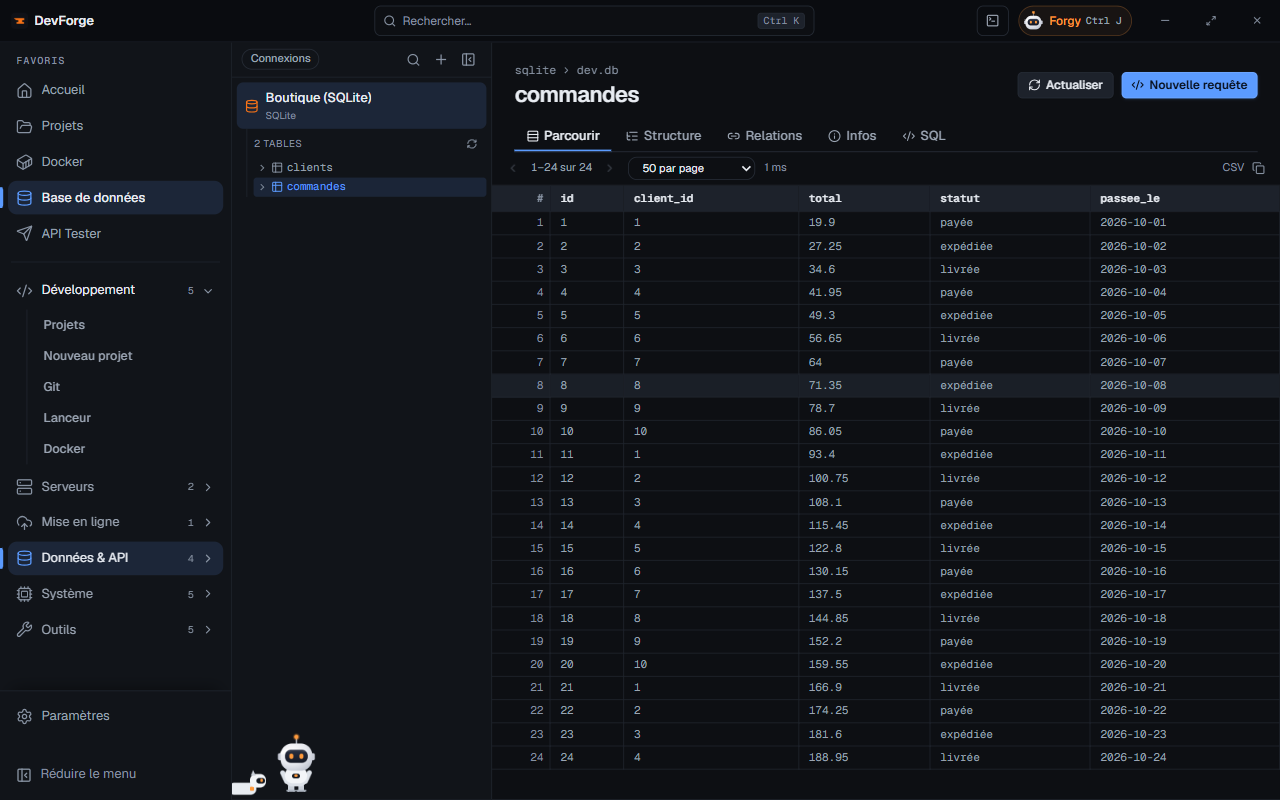
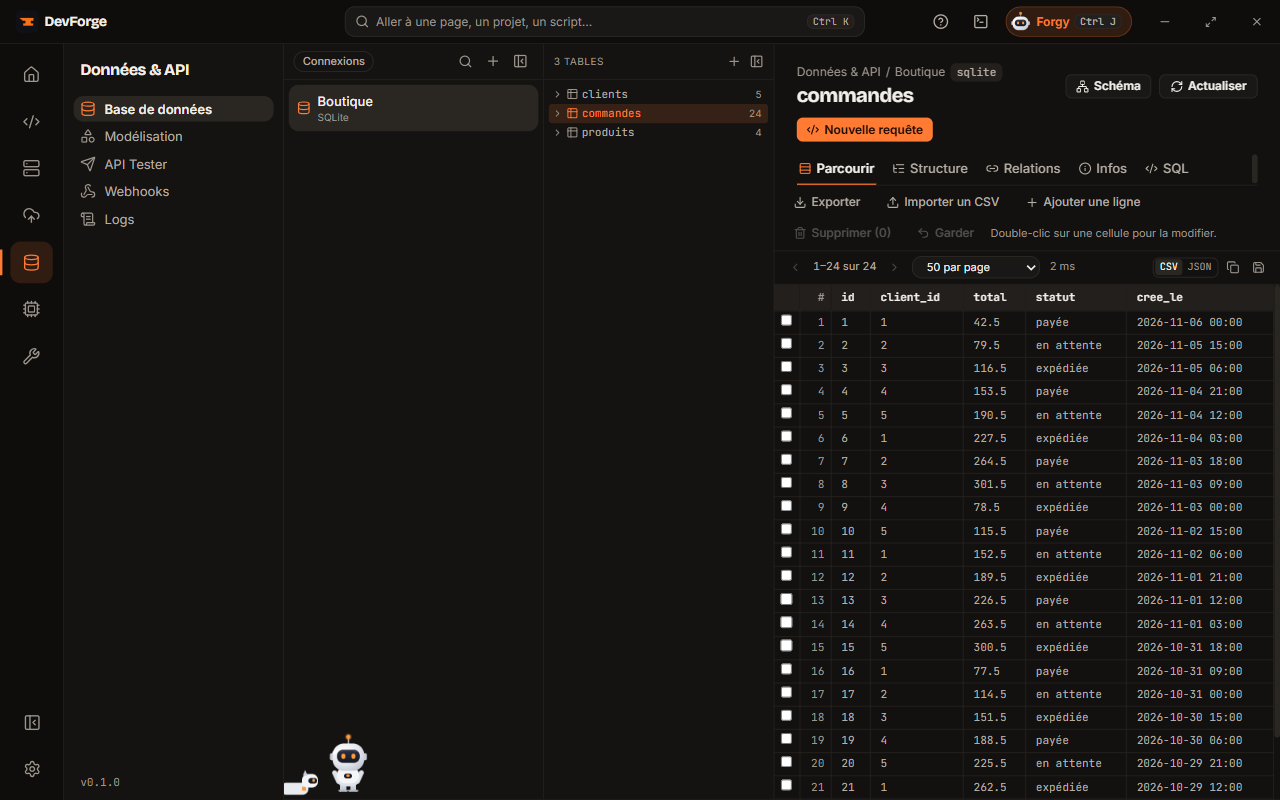
docs(site): le site aux couleurs et polices Forge, captures refaites
- Polices de l'app : Inter pour le texte, Bricolage Grotesque pour les
  titres, JetBrains Mono pour le code, à la place de Geist
- Couleurs de l'app : papier crème et accent orange brique en clair,
  anthracite chaud et orange vif en sombre ; blocs de code sur le fond de
  l'app ; focus orange vif dans les zones sombres de la page d'accueil
- Page d'accueil, page 404 et page d'administration des statistiques au
  même thème ; logo de l'en-tête des pages de doc à la bonne taille
- 16 captures de l'app et les deux images de partage refaites avec
  l'interface Forge complète (accueil, panneau du menu, couleurs du code),
  sur des données de démonstration
- « La base SQLite du projet » sur la page d'accueil, comme le montre la
  capture

diff --git a/site/src/styles/custom.css b/site/src/styles/custom.css
@@ -1,72 +1,76 @@
 /*
- * The docs in the « Atelier » look of the home page: a warm paper ground,
- * dark ink, Geist, the app's screens on its dark canvas, Forgy's orange for
- * what is current. The dark theme keeps the app's own colours.
+ * The docs in the app's « Forge » look (src/renderer/src/styles/index.css):
+ * warm charcoal in the dark theme, cream paper in the light one, Inter for the
+ * text, Bricolage Grotesque for the titles, JetBrains Mono for code, the
+ * forge orange for what is current, the app's screens on its dark canvas.
  */
 :root {
-  --sl-font: 'Geist Variable', 'Segoe UI', system-ui, sans-serif;
-  --sl-font-mono: 'Geist Mono Variable', ui-monospace, monospace;
+  --sl-font: 'Inter Variable', 'Segoe UI', system-ui, sans-serif;
+  --sl-font-mono: 'JetBrains Mono Variable', 'Cascadia Code', Consolas, monospace;
+  --df-display: 'Bricolage Grotesque Variable', 'Inter Variable', 'Segoe UI', sans-serif;
 
-  /* Dark theme: the app (src/renderer/src/styles/index.css) */
-  --sl-color-accent-low: #15233D;
-  --sl-color-accent: #5B9BFF;
-  --sl-color-accent-high: #CFE0FF;
-  --sl-color-white: #FFFFFF;
-  --sl-color-gray-1: #E8ECF2;
-  --sl-color-gray-2: #C3CAD5;
-  --sl-color-gray-3: #9AA4B2;
-  --sl-color-gray-4: #6B7584;
-  --sl-color-gray-5: #262C36;
-  --sl-color-gray-6: #161A21;
-  --sl-color-black: #0D0F13;
-  --sl-color-bg-nav: #0D0F13;
-  --sl-color-bg-sidebar: #0D0F13;
-  --sl-color-hairline: #1F242D;
-  --sl-color-hairline-light: #262C36;
+  /* Dark theme: the app's own colours */
+  --sl-color-accent-low: #3A1E10;
+  --sl-color-accent: #FF7A33;
+  --sl-color-accent-high: #FFC9A8;
+  --sl-color-white: #FAF7F3;
+  --sl-color-gray-1: #F2EEE9;
+  --sl-color-gray-2: #B5ADA4;
+  --sl-color-gray-3: #9E968D;
+  --sl-color-gray-4: #6E665E;
+  --sl-color-gray-5: #2E2A26;
+  --sl-color-gray-6: #1A1816;
+  --sl-color-black: #121110;
+  --sl-color-bg-nav: #121110;
+  --sl-color-bg-sidebar: #151311;
+  --sl-color-hairline: #25221F;
+  --sl-color-hairline-light: #2E2A26;
 
-  --df-orange: #FF9A3C;
-  --df-card: #161A21;
-  --df-current: #1C2638;
-  --df-code: #1D222B;
-  --df-ink: #E8ECF2;
+  --df-orange: #FF7A33;
+  --df-card: #1A1816;
+  --df-current: #2A2622;
+  --df-code: #221F1C;
+  --df-ink: #F2EEE9;
   --df-ink-hover: #FFFFFF;
-  --df-on-ink: #0D0F13;
-  --df-stage: #0A0C10;
+  --df-on-ink: #121110;
+  --df-stage: #0E0D0C;
 }
 
-/* Light theme, the default: the home page */
+/* Light theme, the default: the app's light theme */
 :root[data-theme='light'] {
-  --sl-color-accent-low: #E3EAFB;
-  --sl-color-accent: #1D4ED8;
-  --sl-color-accent-high: #1E3A8A;
-  --sl-color-white: #17191E;
-  --sl-color-gray-1: #23262D;
-  --sl-color-gray-2: #4A505C;
-  --sl-color-gray-3: #5F6571;
-  --sl-color-gray-4: #8A877F;
-  --sl-color-gray-5: #E2DED6;
-  --sl-color-gray-6: #EEEAE3;
-  --sl-color-gray-7: #F1EDE6;
-  --sl-color-black: #F6F4EF;
-  --sl-color-bg-nav: #F6F4EF;
-  --sl-color-bg-sidebar: #F6F4EF;
-  --sl-color-hairline: #E2DED6;
-  --sl-color-hairline-light: #E2DED6;
-  --sl-color-hairline-shade: #D6D1C8;
+  --sl-color-accent-low: #F7E3D8;
+  --sl-color-accent: #B53C0B;
+  --sl-color-accent-high: #7C2D12;
+  --sl-color-white: #1E1A16;
+  --sl-color-gray-1: #2A2520;
+  --sl-color-gray-2: #5C544C;
+  --sl-color-gray-3: #6A6158;
+  --sl-color-gray-4: #9A9086;
+  --sl-color-gray-5: #E4DED6;
+  --sl-color-gray-6: #EEE9E3;
+  --sl-color-gray-7: #F3EFEA;
+  --sl-color-black: #F7F4F0;
+  --sl-color-bg-nav: #F7F4F0;
+  --sl-color-bg-sidebar: #FBF9F6;
+  --sl-color-hairline: #E4DED6;
+  --sl-color-hairline-light: #E4DED6;
+  --sl-color-hairline-shade: #D9D2C9;
 
-  --df-orange: #C2530A;
+  --df-orange: #B53C0B;
   --df-card: #FFFFFF;
-  --df-current: #EAE5DC;
-  --df-code: #F1EDE6;
-  --df-ink: #17191E;
-  --df-ink-hover: #2B2F37;
+  --df-current: #ECE6DF;
+  --df-code: #F3EFEA;
+  --df-ink: #1E1A16;
+  --df-ink-hover: #34302B;
   --df-on-ink: #FFFFFF;
-  --df-stage: #0D0F13;
+  --df-stage: #121110;
 }
 
 /* Header */
 header.header { border-bottom: 1px solid var(--sl-color-hairline); }
-.site-title { font-weight: 700; letter-spacing: -0.02em; color: var(--sl-color-white); }
+.site-title { font-family: var(--df-display); font-weight: 700; letter-spacing: -0.02em; color: var(--sl-color-white); }
+/* Starlight sizes the logo on the whole header, tabs row included: the first row only */
+header .site-title img { height: 2rem; width: auto; }
 site-search button[data-open-modal] { border-radius: 9px; background: var(--df-card); border-color: var(--sl-color-gray-5); }
 
 /* Sidebar: plain group labels, the current page on a soft pill */
@@ -90,9 +94,11 @@ site-search button[data-open-modal] { border-radius: 9px; background: var(--df-c
 starlight-toc a[aria-current='true'],
 mobile-starlight-toc a[aria-current='true'] { color: var(--df-orange); font-weight: 600; }
 
-/* Text */
-.sl-markdown-content h1, h1#_top { letter-spacing: -0.035em; font-weight: 750; }
-.sl-markdown-content h2 { letter-spacing: -0.025em; }
+/* Text: titles in Bricolage, as the app's pages and cards */
+.sl-markdown-content :is(h1, h2, h3), h1#_top { font-family: var(--df-display); }
+.sl-markdown-content h1, h1#_top { letter-spacing: -0.025em; font-weight: 700; }
+.sl-markdown-content h2 { letter-spacing: -0.02em; font-weight: 700; }
+.sl-markdown-content h3 { letter-spacing: -0.01em; font-weight: 700; }
 .sl-markdown-content :is(h2, h3) { scroll-margin-top: 5rem; }
 
 /* Tables: a white card with fine rules */
@@ -139,8 +145,10 @@ mobile-starlight-toc a[aria-current='true'] { color: var(--df-orange); font-weig
 }
 .starlight-aside__title { color: var(--sl-color-white); }
 .starlight-aside__icon { color: var(--df-orange); }
-.starlight-aside--caution .starlight-aside__icon,
-.starlight-aside--danger .starlight-aside__icon { color: #B45309; }
+.starlight-aside--caution .starlight-aside__icon { color: #F2B544; }
+.starlight-aside--danger .starlight-aside__icon { color: #FF6B5E; }
+:root[data-theme='light'] .starlight-aside--caution .starlight-aside__icon { color: #8F5400; }
+:root[data-theme='light'] .starlight-aside--danger .starlight-aside__icon { color: #B42318; }
 
 /* Previous / next */
 .pagination-links a {
@@ -188,7 +196,7 @@ mobile-starlight-toc a[aria-current='true'] { color: var(--df-orange); font-weig
   background: var(--df-card); color: var(--sl-color-white); text-decoration: none;
 }
 .df-way:hover { border-color: var(--sl-color-gray-4); }
-.df-way strong { font-size: 1.05rem; }
+.df-way strong { font-family: var(--df-display); font-size: 1.05rem; }
 .df-way span { color: var(--sl-color-gray-2); font-size: var(--sl-text-sm); }
 .df-way em { margin-top: auto; font-style: normal; font-weight: 600; font-size: var(--sl-text-sm); color: var(--sl-color-accent); }
 
@@ -196,7 +204,7 @@ mobile-starlight-toc a[aria-current='true'] { color: var(--df-orange); font-weig
 .df-releases { margin-top: 2rem; }
 .df-release-latest { padding: 1.75rem; border: 1px solid var(--sl-color-gray-5); border-radius: 16px; background: var(--df-card); }
 .df-release-head { display: flex; flex-wrap: wrap; align-items: baseline; gap: 0.5rem 0.9rem; }
-.df-release-head h2 { margin: 0; font-size: 1.9rem; letter-spacing: -0.03em; color: var(--sl-color-white); }
+.df-release-head h2 { margin: 0; font-family: var(--df-display); font-size: 1.9rem; letter-spacing: -0.025em; color: var(--sl-color-white); }
 .df-badge { font-size: 0.8rem; font-weight: 600; color: var(--df-orange); background: color-mix(in srgb, var(--df-orange) 12%, transparent); padding: 0.1rem 0.65rem; border-radius: 999px; }
 .df-date { font: 0.85rem var(--sl-font-mono); color: var(--sl-color-gray-3); }
 .df-summary { margin-top: 1rem; font-size: 1.1rem; color: var(--sl-color-gray-1); }
@@ -208,11 +216,11 @@ mobile-starlight-toc a[aria-current='true'] { color: var(--df-orange); font-weig
 .df-release-actions a { font-weight: 600; text-decoration: none; }
 .df-release-actions a.df-button { padding: 0.6rem 1rem; border-radius: 9px; background: var(--df-ink); color: var(--df-on-ink); }
 .df-release-actions a.df-button:hover { background: var(--df-ink-hover); }
-.df-earlier { margin: 3rem 0 1rem; font-size: 1.5rem; letter-spacing: -0.02em; color: var(--sl-color-white); }
+.df-earlier { margin: 3rem 0 1rem; font-family: var(--df-display); font-size: 1.5rem; letter-spacing: -0.02em; color: var(--sl-color-white); }
 .df-release { display: flex; flex-wrap: wrap; gap: 0.5rem 2rem; padding: 1.4rem 0; border-top: 1px solid var(--sl-color-gray-5); }
 .df-release:last-of-type { border-bottom: 1px solid var(--sl-color-gray-5); }
 .df-release-side { flex: 0 0 160px; }
-.df-release-side h3 { margin: 0; font-size: 1.25rem; }
+.df-release-side h3 { margin: 0; font-family: var(--df-display); font-size: 1.25rem; }
 .df-release-side h3 a { color: var(--sl-color-white); text-decoration: none; }
 .df-release-main { flex: 1 1 380px; min-width: 0; color: var(--sl-color-gray-1); }
 .df-release-main summary { cursor: pointer; margin-top: 0.5rem; font-weight: 600; font-size: var(--sl-text-sm); color: var(--sl-color-accent); }

diff --git a/site/src/components/landing/text.ts b/site/src/components/landing/text.ts
@@ -27,7 +27,7 @@ const fr = {
     steps: [
       { time: '09:02', shot: 'palette', pos: 'center', title: 'Ctrl K, « bou »', text: "Le projet s'ouvre, son serveur de dev démarre depuis la palette.", alt: 'La palette de commandes' },
       { time: '11:40', shot: 'git', pos: 'left top', title: 'Commit & push', text: "Le message est suggéré d'après les fichiers touchés.", alt: 'Le tableau de bord Git' },
-      { time: '15:15', shot: 'database', pos: 'right top', title: "Un coup d'œil à la base", text: 'La base Docker du projet, déjà connectée.', alt: 'Une table dans le client SQL' }
+      { time: '15:15', shot: 'database', pos: 'right top', title: "Un coup d'œil à la base", text: 'La base SQLite du projet, déjà connectée.', alt: 'Une table dans le client SQL' }
     ],
     deploy: { time: '18:05', title: 'Déployer', text: 'Un clic : le script tourne sur ton serveur en SSH.', path: 'mon-serveur · /var/www/boutique', done: '✓ boutique déployé' }
   },
@@ -111,7 +111,7 @@ const en: Text = {
     steps: [
       { time: '09:02', shot: 'palette', pos: 'center', title: 'Ctrl K, "bou"', text: 'The project opens, its dev server starts from the palette.', alt: 'The command palette' },
       { time: '11:40', shot: 'git', pos: 'left top', title: 'Commit & push', text: 'The message is suggested from the files touched.', alt: 'The Git dashboard' },
-      { time: '15:15', shot: 'database', pos: 'right top', title: 'A look at the database', text: "The project's Docker database, already connected.", alt: 'A table in the SQL client' }
+      { time: '15:15', shot: 'database', pos: 'right top', title: 'A look at the database', text: "The project's SQLite database, already connected.", alt: 'A table in the SQL client' }
     ],
     deploy: { time: '18:05', title: 'Deploy', text: 'One click: the script runs on your server over SSH.', path: 'my-server · /var/www/shop', done: '✓ shop deployed' }
   },

diff --git a/site/public/admin/admin.css b/site/public/admin/admin.css
@@ -1,33 +1,33 @@
-/* The site's paper look (src/styles/custom.css), the app's colours in the dark */
+/* The site's look (src/styles/custom.css): the app's « Forge » colours, cream paper or warm charcoal */
 :root {
-  --bg: #F6F4EF;
+  --bg: #F7F4F0;
   --card: #FFFFFF;
-  --line: #E2DED6;
-  --ink: #17191E;
-  --ink-2: #4A505C;
-  --muted: #6B6862;
-  --accent: #1D4ED8;
-  --accent-soft: #E3EAFB;
+  --line: #E4DED6;
+  --ink: #1E1A16;
+  --ink-2: #5C544C;
+  --muted: #6A6158;
+  --accent: #B53C0B;
+  --accent-soft: #F7E3D8;
   --danger: #B42318;
-  --bar-track: #EEEAE3;
-  --s1: #1D4ED8;
-  --s2: #C2530A;
+  --bar-track: #EEE9E3;
+  --s1: #B53C0B;
+  --s2: #1D4ED8;
   color-scheme: light;
 }
 @media (prefers-color-scheme: dark) {
   :root {
-    --bg: #0D0F13;
-    --card: #161A21;
-    --line: #262C36;
-    --ink: #E8ECF2;
-    --ink-2: #C3CAD5;
-    --muted: #9AA4B2;
-    --accent: #5B9BFF;
-    --accent-soft: #15233D;
-    --danger: #FF7A70;
-    --bar-track: #1F242D;
-    --s1: #5B9BFF;
-    --s2: #FF9A3C;
+    --bg: #121110;
+    --card: #1A1816;
+    --line: #2E2A26;
+    --ink: #F2EEE9;
+    --ink-2: #B5ADA4;
+    --muted: #9E968D;
+    --accent: #FF7A33;
+    --accent-soft: #3A1E10;
+    --danger: #FF6B5E;
+    --bar-track: #25221F;
+    --s1: #FF7A33;
+    --s2: #7AA7FF;
     color-scheme: dark;
   }
 }
@@ -37,7 +37,7 @@ body {
   margin: 0;
   background: var(--bg);
   color: var(--ink);
-  font: 15px/1.5 'Segoe UI', system-ui, sans-serif;
+  font: 15px/1.5 'Inter Variable', 'Segoe UI', system-ui, sans-serif;
 }
 main { max-width: 1100px; margin: 0 auto; padding: 32px 16px 64px; }
 h1 { margin: 0; font-size: 28px; letter-spacing: -.02em; }
